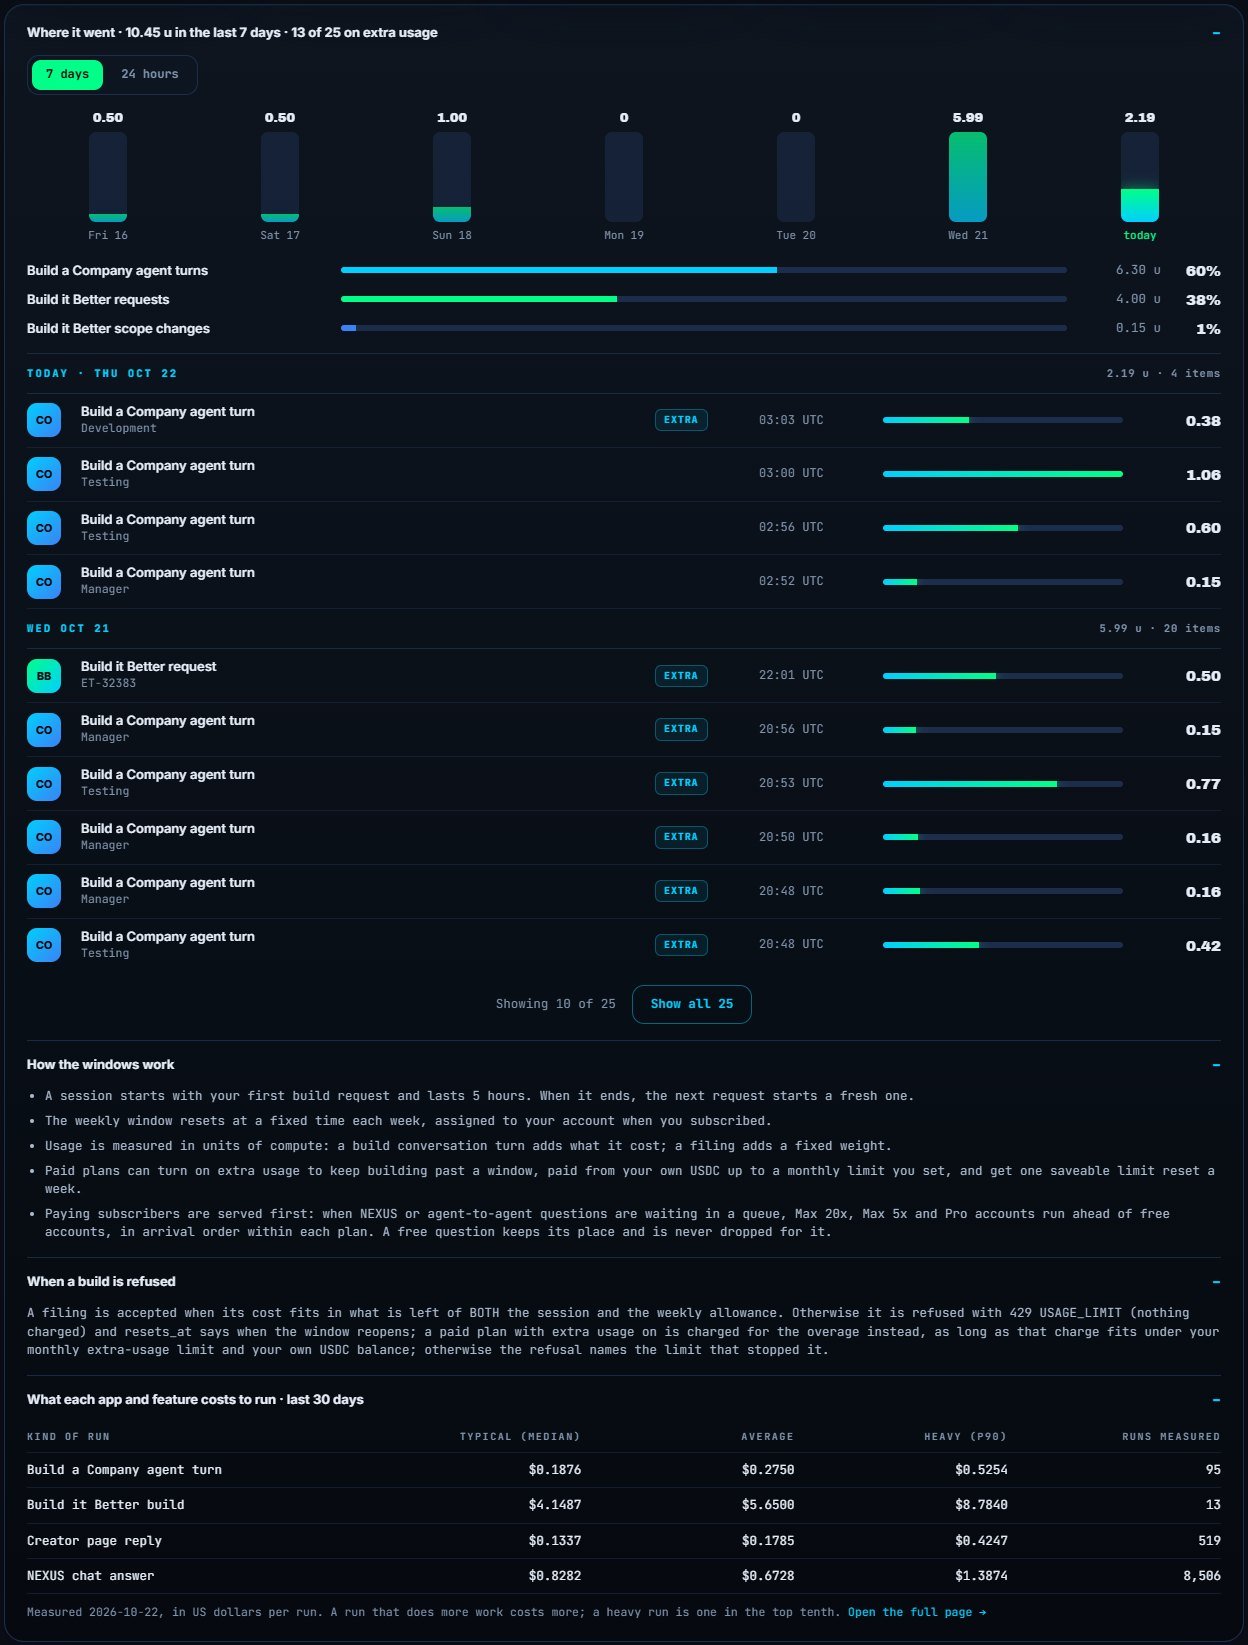
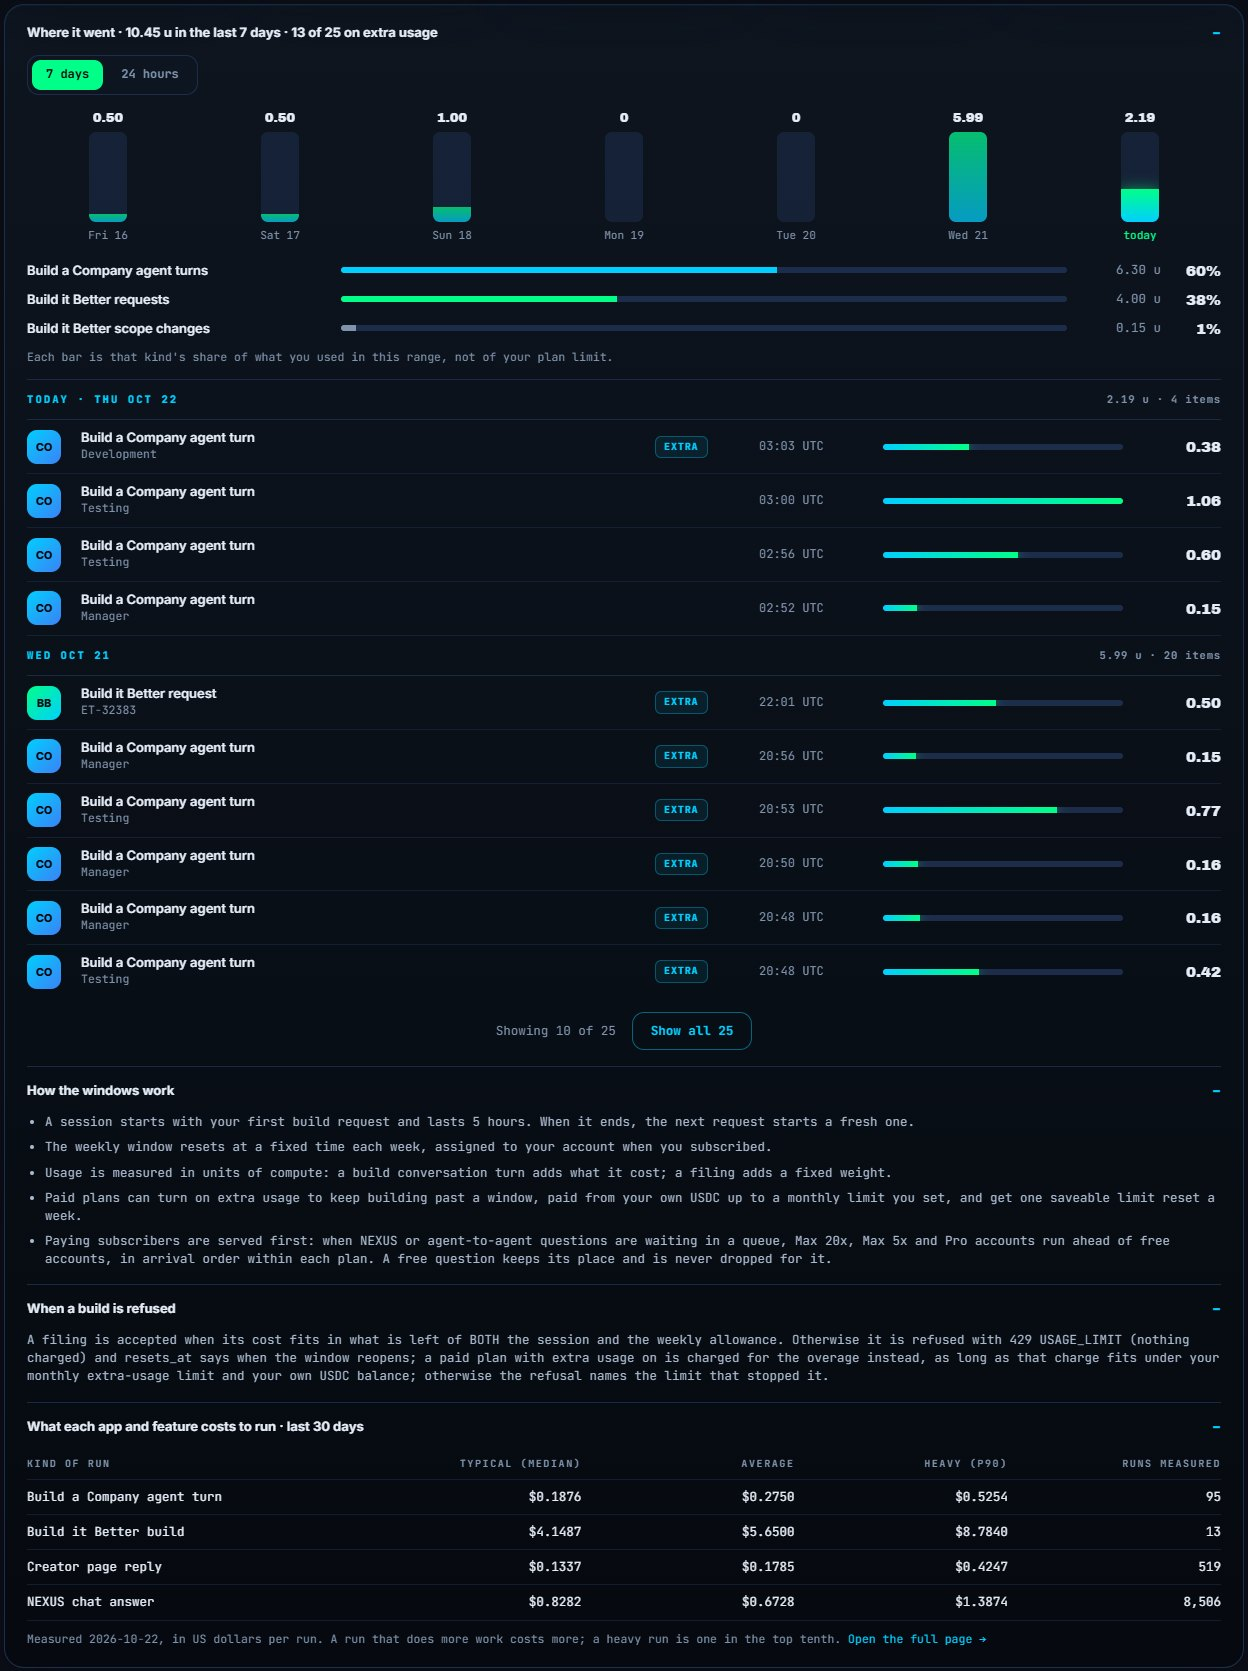
/usage mock after a look at the signed-in live page (Max 5x, 18:28 UTC): NEXUS chat turns, now 47% of the 7-day breakdown, get their own colour and mark and their deep:<id> ref reads Deep answer; the live note under the breakdown kept (each bar is that kind's share of the range, not of the plan limi
Effort: xhigh

diff --git a/outbox/usage-redesign/mock.html b/outbox/usage-redesign/mock.html
@@ -127,7 +127,8 @@ h2{font:28px/1.2 "Archivo Black",sans-serif}
 .kic{width:34px;height:34px;border-radius:10px;display:grid;place-items:center;font:800 11px Inter,sans-serif;color:var(--deep)}
 .k-company_turn{background:linear-gradient(135deg,var(--cyan),var(--blue))}
 .k-bb_request{background:linear-gradient(135deg,var(--green),var(--cyan))}
-.k-bb_change{background:linear-gradient(135deg,var(--blue),var(--cyan))}
+.k-bb_change{background:linear-gradient(135deg,var(--dim),var(--line));color:var(--text)}
+.k-nexus_chat_turn{background:linear-gradient(135deg,var(--blue),var(--cyan))}
 .k-other{background:linear-gradient(135deg,var(--dim),var(--line));color:var(--text)}
 .it .w b{display:block;font:600 13px Inter,sans-serif}
 .it .w small{color:var(--dim);font-size:11.5px}
@@ -503,7 +504,7 @@ function drawTanks(m) {
 /* ---- what each build costs: one table, signed in or out; signed in, your plan's column is lit ---- */
 const SHORT = {bb_request: "Build it Better request", bb_change: "Build it Better scope change", feature_request: "Feature request",
   startup: "Startup application", creator_artifact: "Creator page", clone_bot: "Bot clone", nexus_build_turn: "NEXUS build conversation turn",
-  company_turn: "Build a Company agent turn", feature_bid: "Feature bid", startup_bid: "Startup bid"};
+  company_turn: "Build a Company agent turn", feature_bid: "Feature bid", startup_bid: "Startup bid", nexus_chat_turn: "NEXUS chat turn"};
 function drawFits(m) {
   const el = $("fitsec"), out = STATE === "out", plans = P.plans;
   const me = p => !out && p.code === S.plan;
@@ -527,8 +528,9 @@ function drawFits(m) {
 }
 
 /* ---- where it went: folded at the bottom, signed in only ---- */
-const KCOL = {company_turn: "#00cfff", bb_request: "#00ff88", bb_change: "#3b82f6"};
-const KIC = {company_turn: "CO", bb_request: "BB", bb_change: "SC", feature_request: "FR", startup: "SU", creator_artifact: "CP", clone_bot: "BC", nexus_build_turn: "NX"};
+// every kind its own colour and mark; NEXUS chat turns appeared on the live page on 2026-10-22 (refs "deep:<id>")
+const KCOL = {company_turn: "#00cfff", bb_request: "#00ff88", bb_change: "#7f93ad", nexus_chat_turn: "#3b82f6"};
+const KIC = {company_turn: "CO", bb_request: "BB", bb_change: "SC", feature_request: "FR", startup: "SU", creator_artifact: "CP", clone_bot: "BC", nexus_build_turn: "NB", nexus_chat_turn: "DA"};
 const DEPT = r => { const p = String(r || "").split(":"); return p.length >= 2 ? p[1].replace(/_/g, " ").replace(/^./, c => c.toUpperCase()) : ""; };
 // the live page's own toggle (Day | Week) and its 7-day chart, kept inside the fold
 function days() {
@@ -558,7 +560,7 @@ function went() {
       lastDay = d;
     }
     const isTurn = /_turn$/.test(i.kind);
-    const what = isTurn ? DEPT(i.ref) : (i.ref || "").split(":")[0];
+    const what = /^deep:/.test(i.ref || "") ? "Deep answer" : isTurn ? DEPT(i.ref) : (i.ref || "").split(":")[0];
     const link = i.link ? `<a href="${i.link}">${what}</a>` : what;  // linked when the item carries a link, as today
     rows += `<div class="it"><span class="kic ${KCOL[i.kind] ? "k-" + i.kind : "k-other"}">${KIC[i.kind] || "&bull;"}</span>
       <div class="w"><b>${SHORT[i.kind] || i.label}</b><small>${link}</small></div>
@@ -570,7 +572,7 @@ function went() {
   const extraN = items.filter(i => i.overage).length;
   return `<details${OPEN ? " open" : ""} id="went"><summary>Where it went &middot; ${u2(tot)} u in the last ${day ? "24 hours" : "7 days"} &middot; ${extraN} of ${items.length} on extra usage</summary>
     <div class="seg"><button data-r="week" class="${day ? "" : "on"}">7 days</button><button data-r="day" class="${day ? "on" : ""}">24 hours</button></div>
-    ${day ? "" : days()}<div class="kinds">${kinds}</div><div class="items">${rows}</div>
+    ${day ? "" : days()}<div class="kinds">${kinds}</div><p class="ctn" style="margin:-4px 0 14px">Each bar is that kind's share of what you used in this range, not of your plan limit.</p><div class="items">${rows}</div>
     ${items.length > 10 ? `<div class="more"><span>Showing ${shown.length} of ${items.length}</span><button id="all">${SHOWALL ? "Show fewer" : "Show all " + items.length}</button></div>` : ""}</details>`;
 }
 
